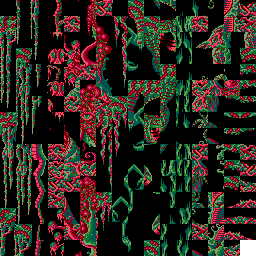
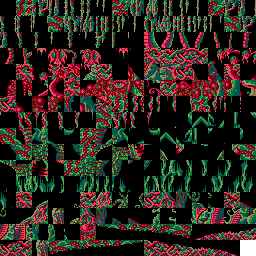
Fixing the foreground map data so it is read into the .tmx file correctly
The tiles were being output into the foregrounds.png in the wrong order.

diff --git a/Tools/PC/GraphicsConverter/MenaceToPNG/Program.cs b/Tools/PC/GraphicsConverter/MenaceToPNG/Program.cs
@@ -710,14 +710,14 @@ class MenaceForegroundsToPNG
                     byte b1 = ForegroundsRawData[ByteIndex + BlockBytesPerBitPlane];
                     byte b2 = ForegroundsRawData[ByteIndex + (BlockBytesPerBitPlane * 2)];
 
-                    // Write X,y into bitmap
-                    int y = Row + ((BlockIndex % ForegroundsBlocksPerRow) * BlockHeightPixels);
+                    // Write x,y into bitmap
+                    int y = Row + ((BlockIndex / ForegroundsBlocksPerRow) * BlockHeightPixels);
                     for (int Bit = 0; Bit < 8; Bit++)
                     {
                         int b = ((b0 >>> Bit) & 0b1) | (((b1 >>> Bit) & 0b1) << 1) | (((b2 >>> Bit) & 0b1) << 2);
                         int x = (i * 8) + (7 - Bit);
 
-                        int xOffset = (BlockIndex / ForegroundsBlocksPerCol) * BlockWidthPixels;
+                        int xOffset = (BlockIndex % ForegroundsBlocksPerCol) * BlockWidthPixels;
                         x += xOffset;
 
                         //Console.WriteLine("Writing x=" + x + " y= " + Row + " Val=" + b);
